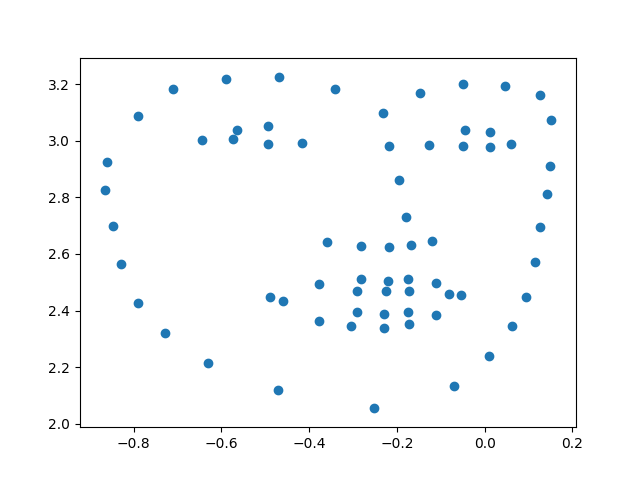
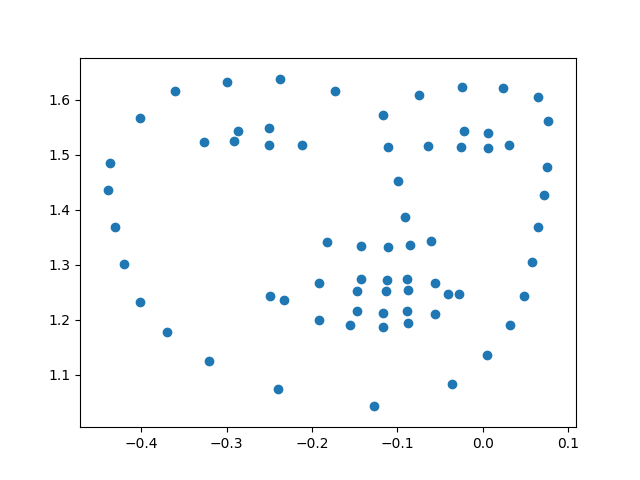
stuck

diff --git a/Assignment_3/part_4/main_4.py b/Assignment_3/part_4/main_4.py
@@ -43,7 +43,7 @@ def demo_train(picture, train_points, ground_truth):
     plt.scatter(ground_truth[:, 0], ground_truth[:, 1])
     plt.xticks([])
     plt.yticks([])
-    plt.savefig("./Results/part_4_initial_face.png")
+    plt.savefig("./Results/part_4_debug.png")
     plt.show()
 
 
@@ -74,7 +74,7 @@ def train(ground_truth, lambda_alpha=1.0, lambda_delta=1.0, lr=0.001, steps=2000
             f"\rEpoch: {i}, Loss: {loss.item():0.3f} alpha: {model.alpha.item():0.5f}, delta: {model.delta.item():0.5f}, omega: [{model.omega[0].item():0.5f}, {model.omega[1].item():0.5f}, {model.omega[2].item():0.5f}], tau [{model.tau[0].item():0.5f}, {model.tau[1].item():0.5f}, {model.tau[2].item():0.5f}]",
             end='')
 
-        if (i % 25 == 0 and not picture is None):
+        if (i % 50 == 0 and not picture is None):
             normalised_points = model.forward(None)
             train_points = denormalize(normalised_points.detach().cpu().numpy(), picture)
             ground_truth_detached = denormalize(ground_truth.detach().cpu().numpy(), picture)
@@ -107,15 +107,15 @@ def main_4():
     data_manager = DataManager("./Results/")
 
     # extract
-    picture = plt.imread("./Data/trump.jpg")
+    picture = plt.imread("./Data/sjors2.jpg")[:, :, :3]
     ground_truth_points = extract_ground_truth(picture)
 
     # 4.1 show ground truth points
     demo(picture, denormalize(ground_truth_points, picture))
 
     # 4.2 training on face
-    model, state = train(torch.FloatTensor(ground_truth_points), lr=0.077, steps=200, lambda_alpha=1.5,
-                         lambda_delta=1.5, picture=picture)
+    model, state = train(torch.FloatTensor(ground_truth_points), lr=0.15, steps=2000, lambda_alpha=0.2,
+                         lambda_delta=0.25, picture=picture)
     normalised_points = model.forward(None)
     actual_points = denormalize(normalised_points.detach().cpu().numpy(), picture)
     demo(picture, actual_points)

diff --git a/Assignment_3/part_3/pinhole_camera_model.py b/Assignment_3/part_3/pinhole_camera_model.py
@@ -185,7 +185,7 @@ def dehomogenize(input, torching=False, device="cpu"):
 
         # divide each row by final row
         for c in range(columns - 1):
-            new_column = input[:, c] / input[:, -1]
+            new_column = input[:, c] / (-1*input[:, -1])
             d_input = torch.cat((d_input, new_column.view(new_column.shape[0], 1)), dim=1)
 
     else:
@@ -237,9 +237,7 @@ def get_projection(G, omega, tau, torching=False, device="cpu"):
         p_G = (V @ P) @ (T @ h_G.T)
         p_G = dehomogenize(p_G.T, torching=torching, device=device)
 
-    p_G = dehomogenize(p_G, torching=torching, device=device)
-
-    return p_G
+    return p_G[:, 0:2]
 
 
 def main_3():

diff --git a/Assignment_3/model/training_model.py b/Assignment_3/model/training_model.py
@@ -51,4 +51,5 @@ class Training(torch.nn.Module):
         p_G = get_projection(G, self.omega.view(3, 1), self.tau.view(3, 1), torching=True, device=self.device)
 
         # return valid subset
-        return self.activation(p_G[self.subset, :])
+        return (p_G)[self.subset, :]
+        # return self.activation(p_G[self.subset, :])
